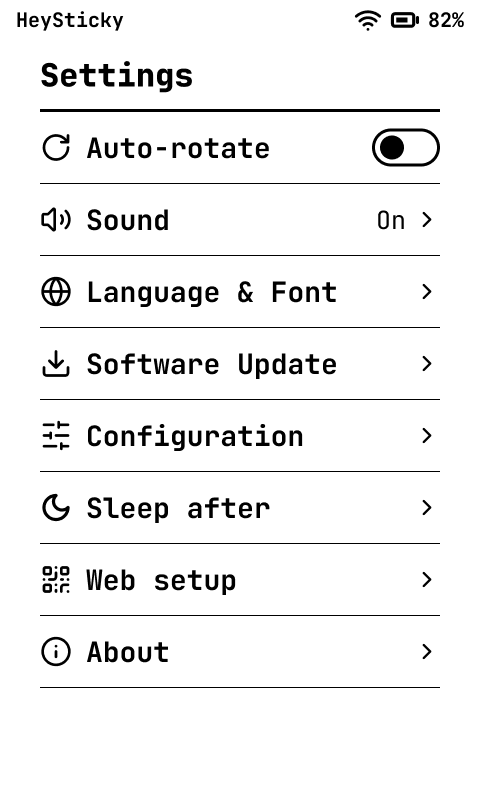
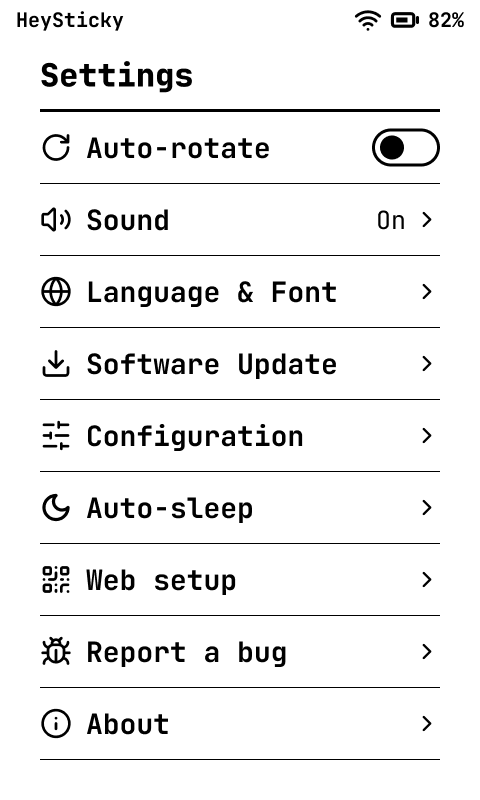
README and ROADMAP: new screens, professional roadmap
README: new Settings, Web setup (Hotspot / Home Wi-Fi) and phone setup page
screens from Figma; Phone setup page gets its own row; Report a bug row moves
to the end; the Roadmap section lists the ROADMAP.md feature headings.

ROADMAP: rewritten with a status legend, an at-a-glance table, released
versions and one section per feature (Poster, Reader, Home widgets, Home
Assistant, Notion daily sync, Remote access, iPhone app over Bluetooth),
then Considering features and Housekeeping. No branch names.

diff --git a/ROADMAP.md b/ROADMAP.md
@@ -1,85 +1,171 @@
-# HeySticky — Roadmap
+# HeySticky Roadmap
 
-What is planned after v1.2.1. Updated 2026-11-26.
+What comes after **v1.2.1**. Last updated 2026-11-26.
 
-## Direction
+HeySticky turns the reTerminal Sticky into an e-ink **dashboard**: it shows your day at a glance and is not typed
+on, because the panel is too slow for a keyboard. Input comes by **voice** (hold the top button) and from the
+**phone**: the setup page today, a native iPhone app over Bluetooth later. Every screen is designed in Figma first,
+in English and Vietnamese, before it is built.
 
-The e-ink screen is a **dashboard**: it shows data and is read at a glance. Typing on it is out (the panel is too
-slow for it). Input comes by **voice** (hold the top button) and from the **phone**: the setup page today, a native
-iPhone app over Bluetooth later. Every screen is designed in Figma first, in English and Vietnamese.
+**Status:** **Next** is being built now · **In development** is built on a branch and being tested · **Planned**
+is agreed but not started · **Considering** is an idea, not a promise.
 
-## Upcoming — Poster (`feature/poster`)
+## At a glance
 
-One task shown big, as a poster, until you take it down.
+| Feature | Status |
+| --- | --- |
+| [Poster](#poster) | Next |
+| [Reader](#reader) | In development |
+| [Home widgets](#home-widgets) | Planned |
+| [Home Assistant](#home-assistant) | Planned |
+| [Notion daily sync](#notion-daily-sync) | Planned |
+| [Remote access](#remote-access) | Planned (experimental) |
+| [iPhone app over Bluetooth](#iphone-app-over-bluetooth) | Planned |
+| [Considering features](#considering-features) | Considering |
 
-- [ ] **Display mode** switch on the task screen (02e) and the phone task form. One task at a time: turning it on
-      for another task turns the first off. Only turning it off or deleting the task removes the poster; ticking
-      it does not.
-- [ ] **Poster page** as page 1 (1 poster · 2 Home · 3 Apps), no loop. Status bar kept, no Done button. Home,
-      the bottom-edge swipe, waking and sleeping still land on Home.
-- [ ] **Phone poster editor:** upload a picture per task; drag / pinch it in the 480 × 800 frame; drag the text
-      box (S / M / L / XL, white backing) with the due label under it; live black-and-white **Preview**. The
+## Released
+
+- **v1.0** — dashboard, To-do, Notes, phone setup page, updates over Wi-Fi.
+- **v1.1** — AI voice: speak a to-do or a note.
+- **v1.2** — phone To-do and Notes pages, RTC clock, 12-hour times.
+- **v1.2.1** — Report a bug (GitHub or email), Web setup on home Wi-Fi.
+
+---
+
+## Poster
+
+**Status:** Next
+
+**Why.** Some tasks matter more than a line in a list. A poster keeps one of them in front of you, big, with your
+own picture, until you take it down.
+
+**Tasks**
+
+- [ ] **Display mode** switch on the task screen (02e) and the phone task form. One poster at a time: turning it
+      on for another task turns the first off. Only turning it off or deleting the task removes the poster;
+      ticking the task does not.
+- [ ] **Poster page** as page 1 (1 Poster · 2 Home · 3 Apps), without looping. Status bar kept, no Done button.
+      Home, the bottom-edge swipe, waking and sleeping still land on Home.
+- [ ] **Phone poster editor:** upload a picture per task, drag and pinch it in the 480 × 800 frame, drag the text
+      box (S / M / L / XL, white backing) with the due label under it, and a live black-and-white **Preview**. The
       browser dithers the picture; it is saved on the card next to the task.
-- [ ] **Push:** turns Display mode on and makes the Sticky jump to the poster at once (after a running recording).
-- [ ] **Poster deep sleep:** asleep on the poster, the Sticky stays on it (moon) in deep sleep; a short top press
-      wakes it to Home; an hourly timer wake (no Wi-Fi) updates the battery and checks for an empty battery.
+- [ ] **Push** turns Display mode on and makes the Sticky jump to the poster at once (after a running recording).
+- [ ] **Poster deep sleep:** asleep on the poster, the Sticky stays on it (with a moon) in deep sleep. A short top
+      press wakes it to Home; an hourly timer wake (no Wi-Fi) updates the battery and checks for an empty battery.
 
-## Then — editable Home widgets
+## Reader
 
-- [ ] Choose and arrange the Home cards, built together with the first integration widget below, so the widget
-      system is shaped by a real one.
-- [ ] Widget ideas: smart-home light, Bambu Lab print progress, stocks.
+**Status:** In development
 
-## Integrations (each on its own branch)
+**Why.** A 480 × 800 e-ink screen is good for reading, and the card has room for a whole library.
 
-- [ ] **Notion daily sync** — to-dos and notes; voice recordings handed to the phone over Bluetooth, then deleted
-      from the card.
-- [ ] **Home Assistant** — a dashboard of chosen entities; the Home tile in Apps (now "later").
-- [ ] **Reader** — read books / long text from the card (the Reader tile in Apps, now "later").
-- [ ] **Deadline reminders** — beep at a task's due time, waking from sleep for it.
-- [ ] **Remote access (Tailscale)** — experimental; only with community ESP-IDF libraries.
+**What is built.** EPUB (with pictures), TXT and Markdown from `/books/` on the card. The library puts the book
+you were reading first; each book opens where you left it, also after sleep or a restart. Tap or swipe to turn the
+page; the middle opens Contents and text size S / M. Books are uploaded and deleted on the phone page (06s). Layout
+comes from the engine of [CrossPoint Reader](https://github.com/crosspoint-reader/crosspoint-reader), built into
+the firmware. Two rounds of device tests are done and fixed.
 
-The phone page already has hidden rows for Notion, Home Assistant and Remote access (06i–06k).
+**Tasks**
+
+- [ ] Bring in the latest release and merge the phone page changes (Report a bug and the Books row both changed
+      it).
+- [ ] Device test on top of v1.2.1, then release.
+- [ ] Later: **PDF** (converted to text on the phone page with pdf.js) and books in sub-folders of `/books/`.
+
+## Home widgets
+
+**Status:** Planned
+
+**Why.** Home is the screen you see most. You should choose what is on it.
+
+**Tasks**
+
+- [ ] Choose and arrange the Home cards. Built together with the first integration widget, so the widget system is
+      shaped by a real one rather than guessed.
+- [ ] **Deadline reminders:** beep at a task's due time, waking from sleep for it.
+
+**Widget ideas:** smart-home light, Bambu Lab print progress, stocks.
+
+## Home Assistant
+
+**Status:** Planned
+
+**Why.** The Sticky sits on a desk or a wall, where a glance at the house is useful.
+
+**Tasks**
+
+- [ ] A dashboard of chosen Home Assistant entities, opened from the Home tile in Apps (now marked "later").
+- [ ] Set up on the phone page; its row (06j) is already designed and hidden.
+- [ ] Offer entities as Home widgets once [Home widgets](#home-widgets) exist.
+
+## Notion daily sync
+
+**Status:** Planned
+
+**Why.** Many people keep their to-dos and notes in Notion; the Sticky should show the same list.
+
+**Tasks**
+
+- [ ] Daily two-way sync of to-dos and notes; its phone page row (06i) is already designed and hidden.
+- [ ] Voice recordings handed to the phone over Bluetooth, then deleted from the card (needs the
+      [iPhone app](#iphone-app-over-bluetooth)).
+
+## Remote access
+
+**Status:** Planned (experimental)
+
+**Why.** Reach the phone page away from home, without opening ports on the router.
+
+**Tasks**
+
+- [ ] Tailscale on the ESP32-S3, possible only with community ESP-IDF libraries. Prove it builds, fits in flash
+      and stays stable before any screen work.
+- [ ] Set up on the phone page; its row (06k) is already designed and hidden.
+
+**Open:** memory and battery cost of keeping the tunnel up.
 
 ## iPhone app over Bluetooth
 
-- [ ] Native iPhone app (Safari has no Web Bluetooth) talking to the Sticky over BLE 5, next to Wi-Fi, without
-      the hotspot: to-dos, notes and fonts.
-- [ ] The app converts TTF / OTF into the Sticky's 13 font slots (about 1.1 MB a font, roughly 20–40 s to send).
-- [ ] Chrome on Android / desktop could reuse the phone page's font converter through Web Bluetooth.
-- [ ] Cost: a few hundred KB of flash for the BLE stack.
+**Status:** Planned
 
-## Power
+**Why.** Safari has no Web Bluetooth, and joining the Sticky's hotspot every time is slow. A native app talks to
+the Sticky directly, next to Wi-Fi.
 
-- [ ] Measure one night on battery with hourly weather and the RTC clock (v1.2).
-- [ ] Then decide on **hourly deep sleep on Home** (clock updated hourly instead of every minute) for longer
-      battery life.
+**Tasks**
 
-## Small open items
+- [ ] Native iPhone app talking to the Sticky over BLE 5: to-dos, notes and fonts, without the hotspot.
+- [ ] Convert TTF / OTF in the app into the Sticky's 13 font slots (about 1.1 MB a font, roughly 20–40 s to send).
+- [ ] Chrome on Android and desktop could reuse the phone page's font converter through Web Bluetooth.
 
-- [x] **Seeed registry entry** — HeySticky 1.2.0 submitted as
-      [registry PR #152](https://github.com/Seeed-Projects/reterminal-sticky-playground-registry/pull/152)
-      (2026-11-21), device-tested. Waiting for Seeed's review; each new release needs a small PR there to update
-      the Playground's browser flasher.
-- [ ] **Certifications** in About — replace the "FCC · CE" placeholder with the text on the device label.
-- [ ] **16 px edge margin** (status bar, page counter, bottom buttons) — check against the visible pixels on the
-      real panel.
-- [ ] **Auto-rotate** — the setting is stored; rotation needs the IMU.
+**Cost:** a few hundred KB of flash for the BLE stack.
+
+---
 
 ## Considering features
 
-- **Repeat tasks** and other to-do extras (2026-11-20).
+Ideas being weighed. None of them is promised.
+
+- **Repeat tasks** (2026-11-20) and other to-do extras.
 - **My reports** (2026-11-26), taken out of Report a bug for now. The Sticky (04u) and the phone page (06v) listed
-  each report and followed its GitHub issue through GitHub's issue search: Waiting, Open, Fixed, Won't fix; a report
-  not on GitHub within an hour (cancelled, never sent) dropped off. Email reports can't be seen, so they weren't listed.
-  Open: email reports could be followed if each daily summary issue names their `HS-XXXX` IDs. The working code is in
-  commit `519b05c` on `feature/bug-report`; the Figma frames are kept as "Considering · 04u My reports".
-- **Raise to wake** (2026-11-25), under consideration and still in development on `feature/raise-to-wake`.
-  Picking it up and tilting it 30° wakes it, and pushes or knocks don't, but in a trouser pocket it kept
-  waking: the IMU alone can't tell when someone is looking at the screen (no proximity or light sensor).
-- **NFC module** — a 3D-printed case with an NFC reader that sticks to the back of the Sticky with magnets and
-  sends each tag tap over Bluetooth (its own small BLE chip and battery). Magnets stay away from the NFC coil,
-  with a ferrite sheet behind it. Open: what a tap does (tick a to-do, show a poster, log a check-in…).
-- **Voice stand** — a 3D-printed, USB-powered stand with a speaker and microphone, like a smart speaker: it
-  listens for a wake word, runs the AI and speaks the reply while the Sticky shows it, and charges the Sticky.
-  Needs a mute switch and a listening light. Shares the BLE link with the iPhone app.
+  each report and followed its GitHub issue through GitHub's issue search: Waiting, Open, Fixed, Won't fix. A
+  report not on GitHub within an hour (cancelled, never sent) dropped off; email reports can't be seen, so they
+  weren't listed. *Open:* email reports could be followed if each daily summary issue names their `HS-XXXX` IDs.
+  The working code is in commit `519b05c`; the Figma frames are kept as
+  "Considering · 04u My reports".
+- **Raise to wake** (2026-11-25), still in development. Picking the Sticky up and
+  tilting it 30° wakes it, and pushes or knocks don't, but in a trouser pocket it kept waking: the IMU alone can't
+  tell when someone is looking at the screen (there is no proximity or light sensor).
+- **NFC module.** A 3D-printed case with an NFC reader that sticks to the back of the Sticky with magnets and sends
+  each tag tap over Bluetooth (its own small BLE chip and battery). The magnets stay away from the NFC coil, with a
+  ferrite sheet behind it. *Open:* what a tap does (tick a to-do, show a poster, log a check-in…).
+- **Voice stand.** A 3D-printed, USB-powered stand with a speaker and microphone, like a smart speaker: it listens
+  for a wake word, runs the AI and speaks the reply while the Sticky shows it, and charges the Sticky. Needs a
+  mute switch and a listening light. Shares the BLE link with the iPhone app.
+
+## Housekeeping
+
+Smaller items that don't need a release of their own.
+
+- [ ] **Battery:** measure one night on battery with hourly weather and the RTC clock, then decide on **hourly
+      deep sleep on Home** (clock updated hourly instead of every minute) for longer battery life.
+- [ ] **Auto-rotate:** the setting is stored; rotation needs the IMU.

diff --git a/README.md b/README.md
@@ -50,13 +50,6 @@ minute and the weather every 60 min. UP + DOWN shuts it down; it turns itself of
 timezone, °C / °F), Auto-sleep, Web setup, Report a bug, About (SN, MAC, version, SD card and its files).</td>
 </tr>
 <tr>
-<td><img src="assets/screens/report-bug.png" alt="Report a bug" width="200"></td>
-<td><b>Report a bug.</b> In Settings, hold the top button and tell the AI what went wrong, or tap GitHub or Email
-and scan the QR code with your phone. GitHub opens a new issue and Email opens your mail app to
-<code>heystickyreport@gmail.com</code>, both already filled in with the report and its number (HS-XXXX); an email
-gets an automatic reply. The phone setup page has the same two buttons. Your phone needs internet.</td>
-</tr>
-<tr>
 <td><img src="assets/screens/home-vi.png" alt="Home in Vietnamese" width="200"></td>
 <td><b>English and Tiếng Việt.</b> Every screen and the phone page in both languages. Home shows the clock
 (built-in RTC, keeps time with Wi-Fi off, 12-hour AM / PM), weather from Open-Meteo (no API key), indoor
@@ -68,25 +61,37 @@ temperature and humidity, and today's to-do count. User fonts can be added from 
 new version fails to start. Notes, to-dos and settings stay.</td>
 </tr>
 <tr>
-<td><img src="assets/screens/web-setup.png" alt="Web setup on the Sticky: QR code, hotspot name and password, 192.168.4.1" width="200"><br><br>
-<img src="assets/screens/phone-setup.png" alt="Phone setup page" width="200"></td>
-<td><b>Web setup.</b> Turn it on in Settings (it opens by itself on first start, with no Wi-Fi saved). The Sticky
-starts its own hotspot, <code>HeySticky-Setup</code>, with a new random password each time (the one in the picture
+<td><img src="assets/screens/web-setup.png" alt="Web setup on the Sticky: Hotspot and Home Wi-Fi buttons, QR code, hotspot name and password, 192.168.4.1" width="200"><br><br>
+<img src="assets/screens/web-setup-home-wifi.png" alt="Web setup on the Sticky with Home Wi-Fi picked: QR code and 192.168.1.42 on the home network" width="200"></td>
+<td><b>Web setup.</b> Turn it on in Settings (it opens by itself on first start, with no Wi-Fi saved). Two buttons
+at the top pick how your phone connects: <b>Hotspot</b> or <b>Home Wi-Fi</b>. Web setup turns itself off after
+5 min without the phone.
+<br><br>
+<b>Hotspot.</b> The Sticky starts its own hotspot, <code>HeySticky-Setup</code>, with a new random password each time (the one in the picture
 is an example). Scan the QR code to join, then open <code>192.168.4.1</code>, or let the page open by itself.
 <br><br>
 <b>Home Wi-Fi.</b> Once the Sticky is on your Wi-Fi, pick <b>Home Wi-Fi</b> instead of Hotspot: after a
 warning (anyone on that Wi-Fi can open the page, and it is not encrypted) it shows a QR code and its address on
-your network, for example <code>192.168.1.42</code>. Your phone stays on your Wi-Fi.
-<br><br>
-<b>Phone setup page.</b> Name, city, Wi-Fi (up to 5 networks, joined automatically, or a switch to stay
-offline), fonts, AI keys, and the To-do and Notes pages. Web setup turns itself off after 5 min without the
-phone.</td>
+your network, for example <code>192.168.1.42</code>. Your phone stays on your Wi-Fi.</td>
+</tr>
+<tr>
+<td><img src="assets/screens/phone-setup.png" alt="Phone setup page" width="200"></td>
+<td><b>Phone setup page.</b> Name, city, Wi-Fi (up to 5 networks, joined automatically, or a switch to stay
+offline), fonts, AI keys, the To-do and Notes pages, and Report a bug (greyed out on the hotspot, since it needs
+internet).</td>
 </tr>
 <tr>
 <td><img src="assets/screens/phone-todo.png" alt="Phone To-do page" width="200"><br><br>
 <img src="assets/screens/phone-notes.png" alt="Phone Notes page" width="200"></td>
 <td><b>Phone To-do and Notes pages.</b> On the Sticky's hotspot or your home Wi-Fi: add, edit, tick and delete; the Sticky
 redraws at once.</td>
+</tr>
+<tr>
+<td><img src="assets/screens/report-bug.png" alt="Report a bug" width="200"></td>
+<td><b>Report a bug.</b> In Settings, hold the top button and tell the AI what went wrong, or tap GitHub or Email
+and scan the QR code with your phone. GitHub opens a new issue and Email opens your mail app to
+<code>heystickyreport@gmail.com</code>, both already filled in with the report and its number (HS-XXXX); an email
+gets an automatic reply. The phone setup page has the same two buttons. Your phone needs internet.</td>
 </tr>
 </table>
 
@@ -224,13 +229,14 @@ Fonts and icons are generated: `python3 tools/make_fonts.py` (JetBrains Mono TTF
 
 The full list with details is in [ROADMAP.md](ROADMAP.md).
 
-- **Released:** v1.0 dashboard, To-do, Notes, phone setup, updates over Wi-Fi · v1.1 AI voice · v1.2 phone To-do
-  and Notes pages, RTC clock, 12-hour times · v1.2.1 Report a bug, Web setup on home Wi-Fi.
-- **Upcoming, Poster:** one task shown big as a poster with your own picture, set up and pushed from the phone.
-- **Then:** choose and arrange the Home cards (widgets).
-- **Integrations:** Notion daily sync, Home Assistant, a book reader, deadline reminders, remote access.
-- **iPhone app over Bluetooth:** to-dos, notes and fonts without the hotspot.
-- **Power:** measure a night on battery, then decide on hourly deep sleep on Home.
+- [Poster](ROADMAP.md#poster)
+- [Reader](ROADMAP.md#reader)
+- [Home widgets](ROADMAP.md#home-widgets)
+- [Home Assistant](ROADMAP.md#home-assistant)
+- [Notion daily sync](ROADMAP.md#notion-daily-sync)
+- [Remote access](ROADMAP.md#remote-access)
+- [iPhone app over Bluetooth](ROADMAP.md#iphone-app-over-bluetooth)
+- [Considering features](ROADMAP.md#considering-features)
 
 ## Credits and licences
 
